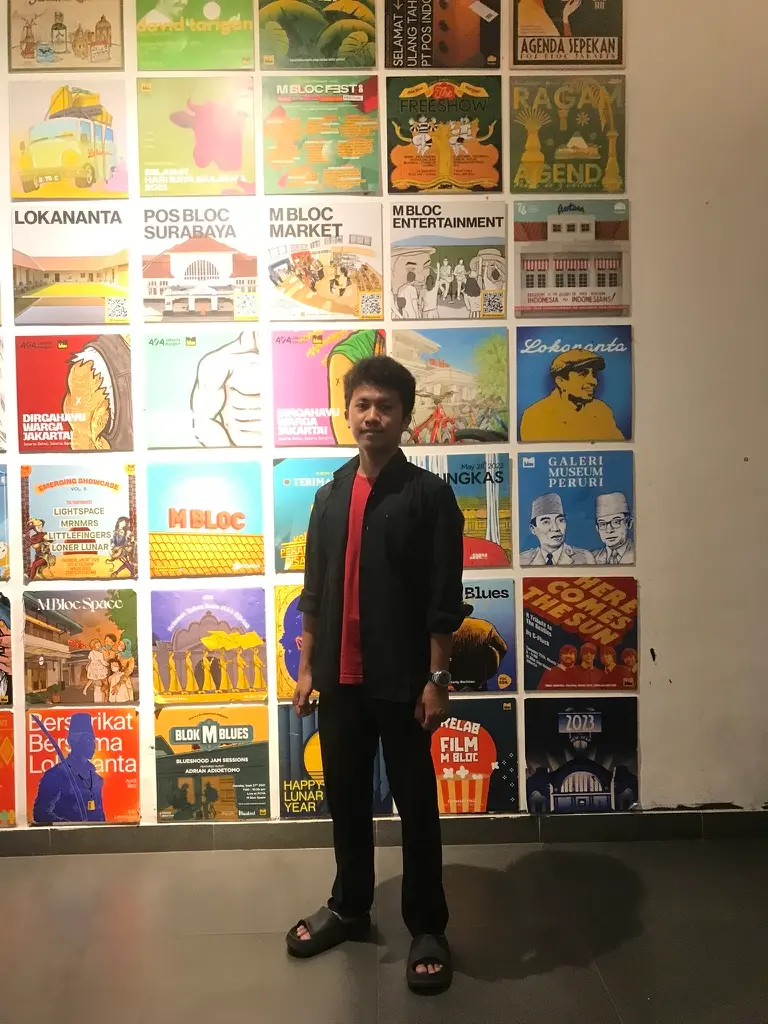
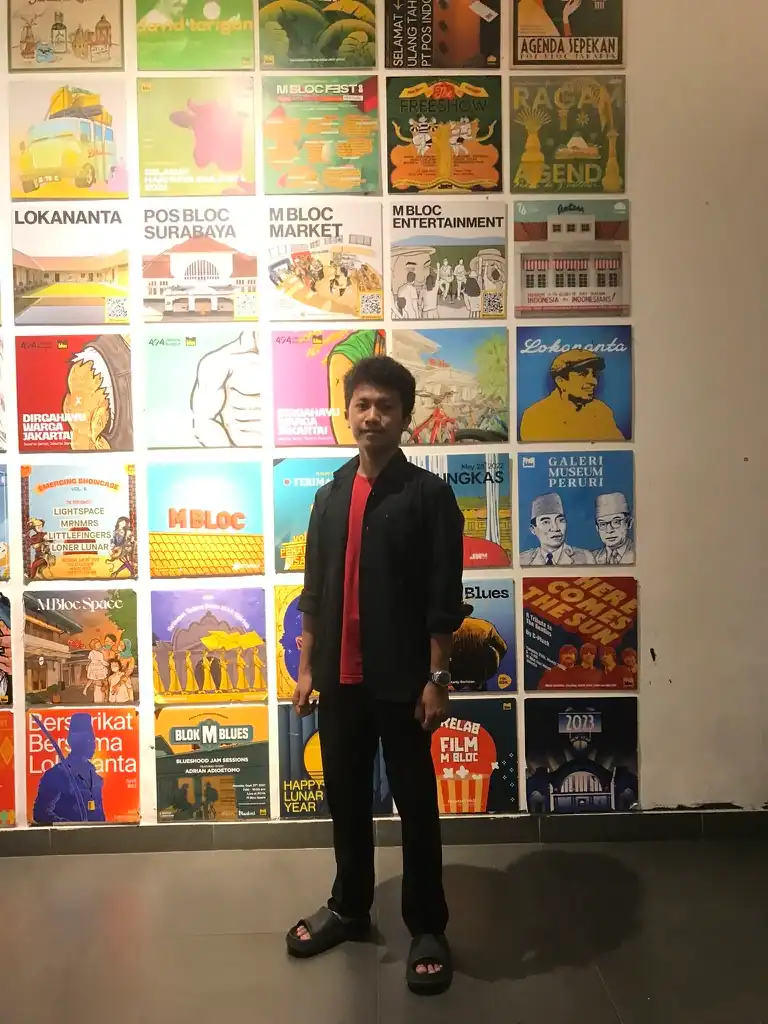
Optimizes about section image
Improves the about section by using webp images and
the picture tag for better image optimization and
browser compatibility.

Changed region(s): [[0.0625, 0.7188, 0.0938, 0.75], [0.0625, 0.4062, 0.0938, 0.4375]]

diff --git a/src/components/Sections/About.tsx b/src/components/Sections/About.tsx
@@ -37,11 +37,16 @@ const About: React.FC = () => {
           <div className="relative order-1 md:order-2">
             {/* Image Container */}
             <div className="aspect-[3/4] md:aspect-square rounded-2xl overflow-hidden bg-surfaceHighlight border border-border relative group shadow-2xl transition-all duration-500 hover:shadow-xl hover:shadow-primary/5">
-              <img 
-                src="/img/munawirfikri-2.jpg" 
-                alt="Munawir Fikri Al-Akbari" 
-                className="object-cover object-top w-full h-full transition-transform duration-700 group-hover:scale-105 filter grayscale hover:grayscale-0"
-              />
+              <picture>
+                <source srcSet="/img/munawirfikri-2.webp" type="image/webp" />
+                <img 
+                  src="/img/munawirfikri-2.jpg" 
+                  alt="Munawir Fikri Al-Akbari"
+                  width="600"
+                  height="800" 
+                  className="object-cover object-top w-full h-full transition-transform duration-700 group-hover:scale-105 filter grayscale hover:grayscale-0"
+                />
+              </picture>
               
               {/* Overlay Gradient (Keep text white here as it is on top of image) */}
               <div className="absolute inset-0 bg-gradient-to-t from-black/90 via-transparent to-transparent opacity-90"></div>
